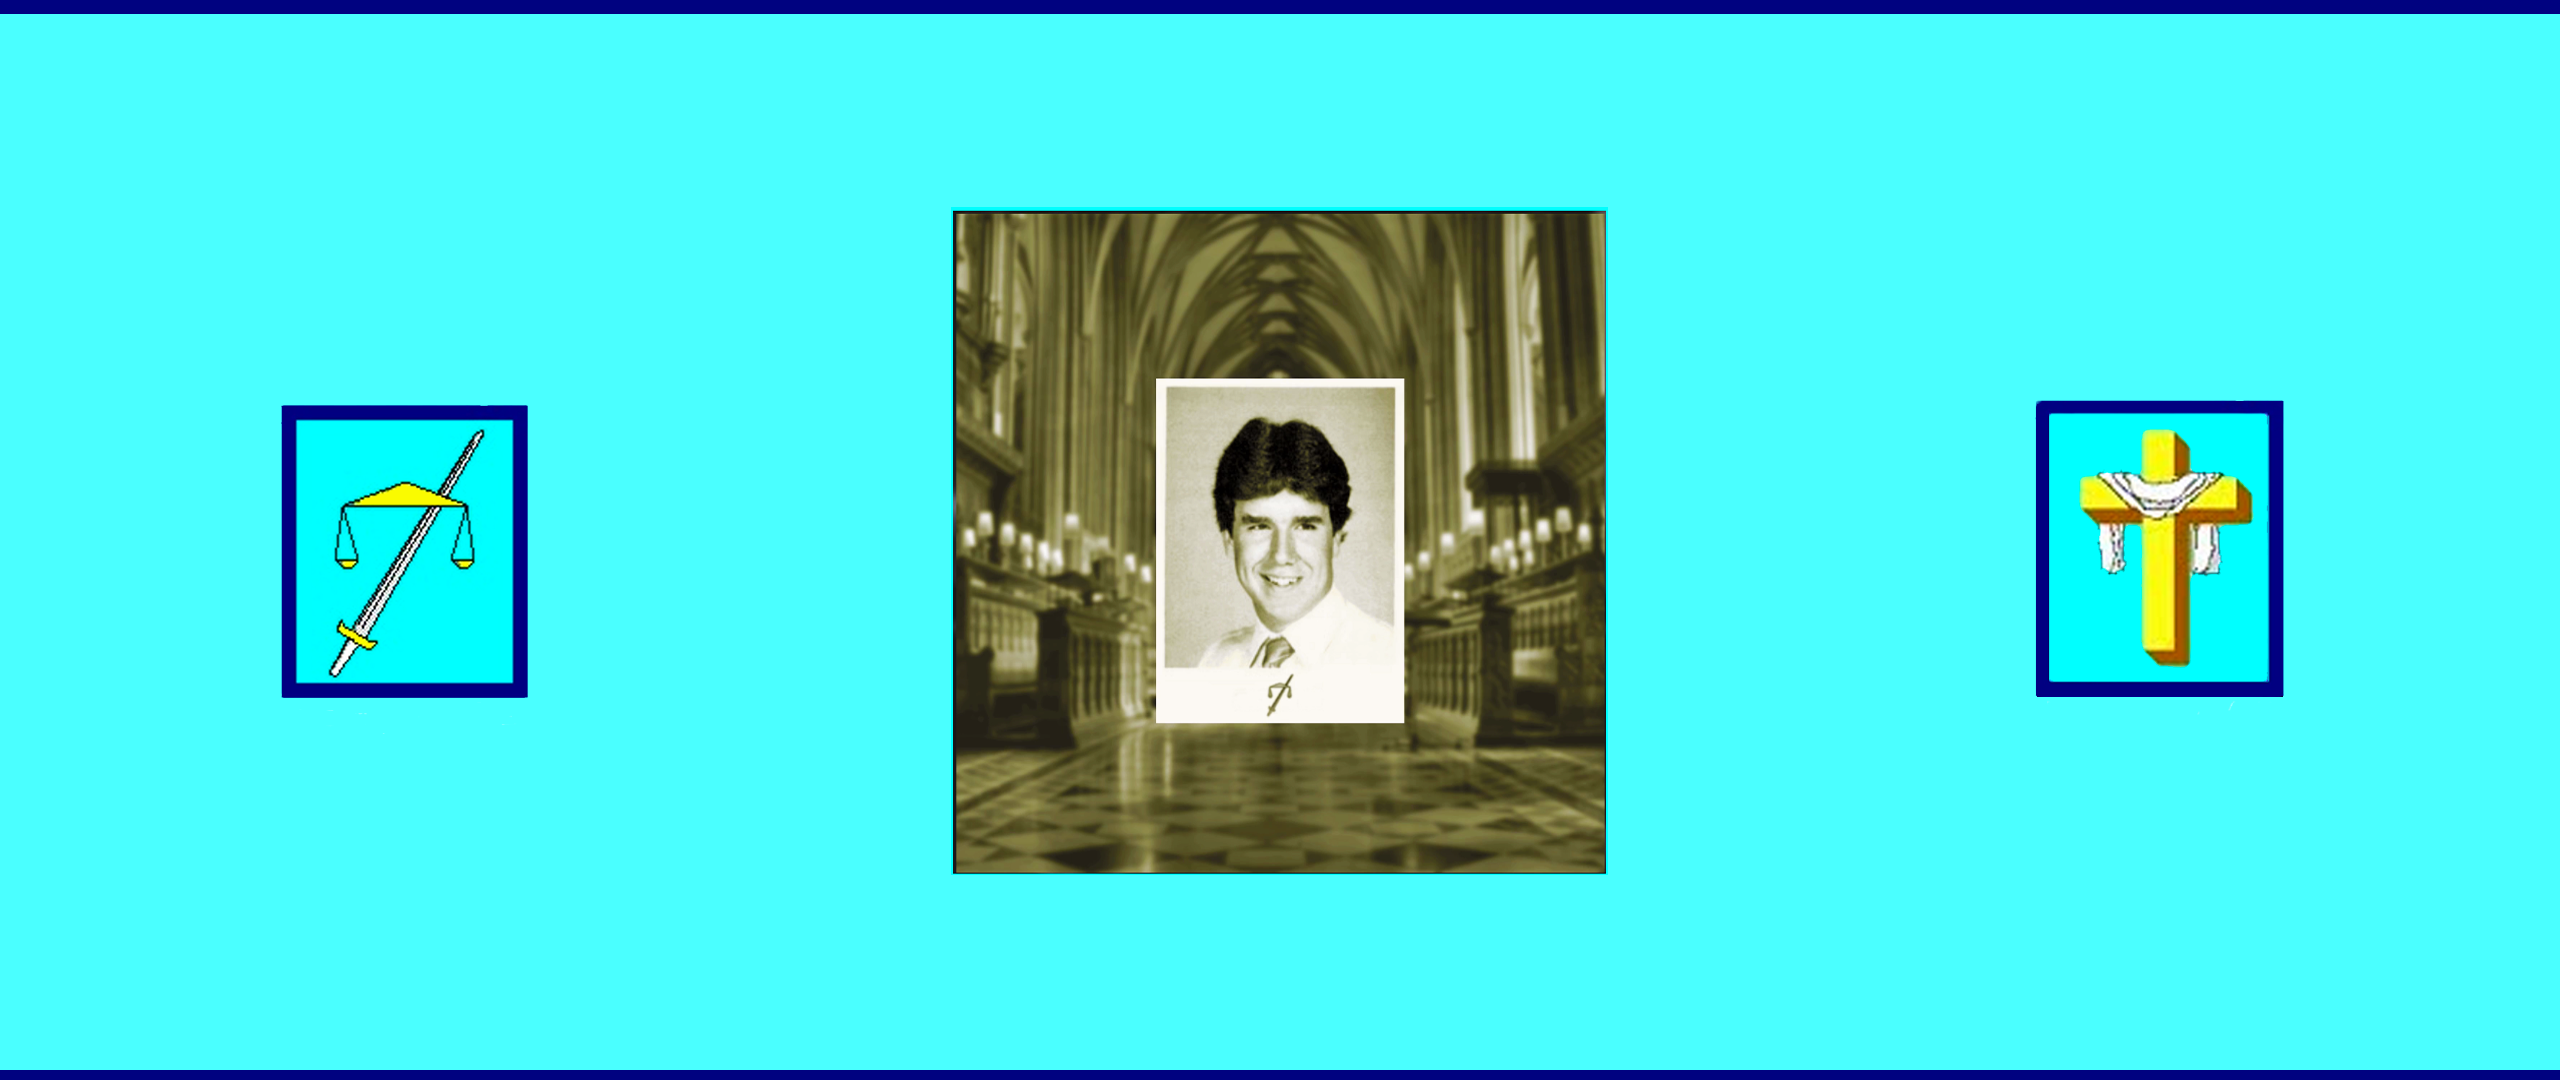
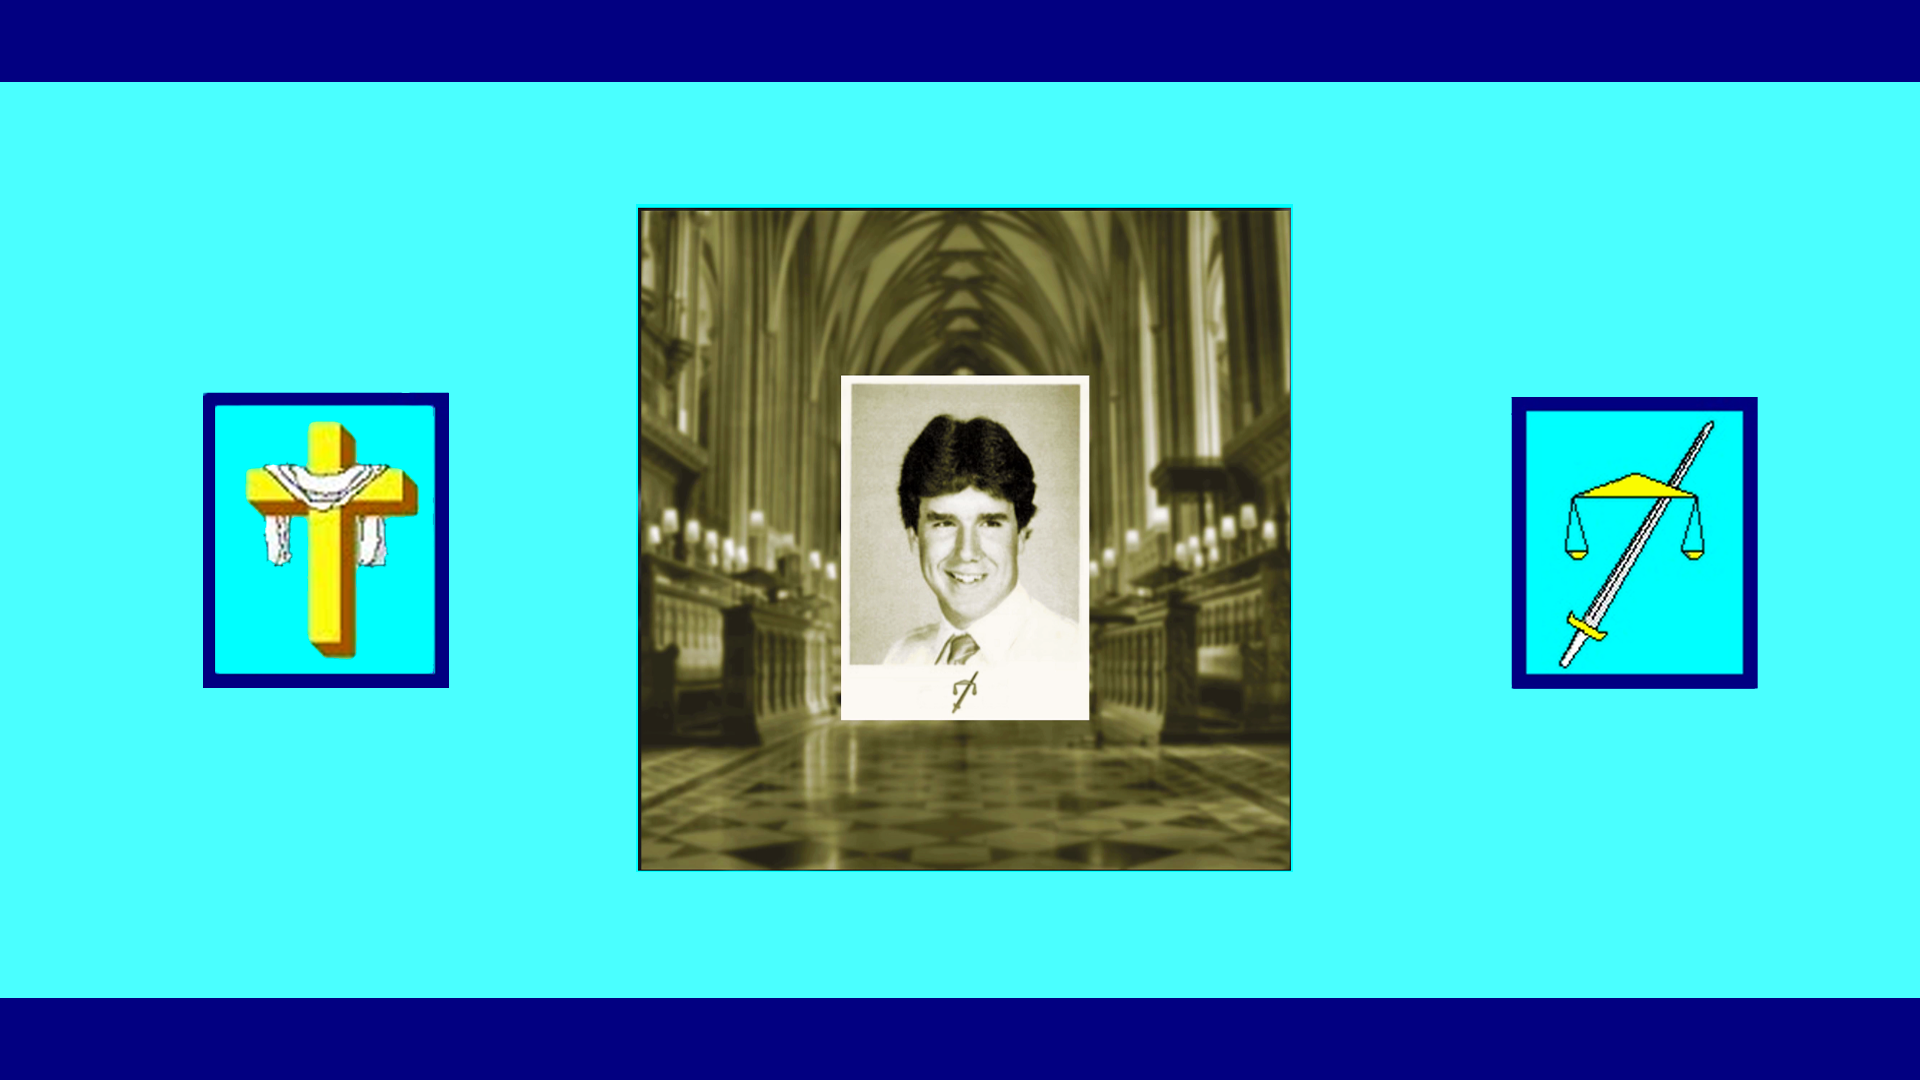
New Terry Wallpaper + Updated configs

diff --git a/README.md b/README.md
@@ -80,7 +80,7 @@ http://download.opensuse.org/repositories/home:/strycore/Debian_9.0/ ./"
 ### Copy this command and run it to install everything 
 
 Main Packages:
-`apt install sudo vim xorg rxvt-unicode i3 w3m pcmanfm rofi fonts-dejavu git nitrogen ranger ssh alsa-utils pulseaudio arandr lxappearance cowsay cmatrix mousepad xfce4-screenshooter p7zip man mpv xarchiver libreoffice audacity dbus fonts-noto-color-emoji fonts-arphic-uming fonts-wqy-zenhei fonts-unfonts-core fonts-lexi-saebom irssi feh htop neofetch ntp ttf-mscorefonts-installer software-properties-common steam bc ed`
+`apt install sudo vim xorg rxvt-unicode i3 w3m pcmanfm rofi fonts-dejavu git nitrogen ranger ssh alsa-utils pulseaudio arandr lxappearance cowsay cmatrix mousepad xfce4-screenshooter p7zip man mpv xarchiver libreoffice audacity dbus fonts-noto-color-emoji fonts-arphic-uming fonts-wqy-zenhei fonts-unfonts-core fonts-lexi-saebom irssi feh htop neofetch ntp ttf-mscorefonts-installer software-properties-common steam bc ed krita`
 
 ## AMD Driver Support
 
